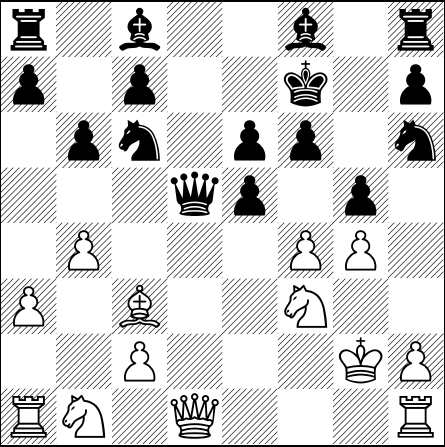
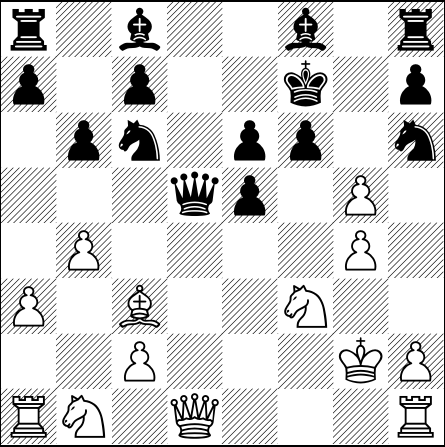
[automated] Regenerate text/pdf for chessboard

Changed region(s): [[0.7596, 0.3781, 0.8472, 0.4944], [0.6427, 0.4944, 0.7303, 0.6107]]

diff --git a/default_filepath.tex b/default_filepath.tex
@@ -13,6 +13,6 @@
 \normalsize%
 \setchessboard{showmover=false}%
 \newgame%
-\fenboard{r1b2b1r/p1p2k1p/1pn1pp1n/3qp1p1/1P3PP1/P1B2N2/2P3KP/RN1Q3R w - - 0 21}%
+\fenboard{r1b2b1r/p1p2k1p/1pn1pp1n/3qp1P1/1P4P1/P1B2N2/2P3KP/RN1Q3R b - - 0 21}%
 \chessboard%
 \end{document}
